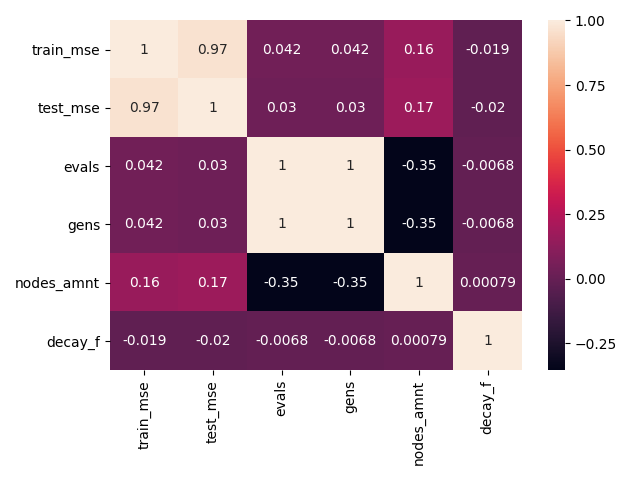
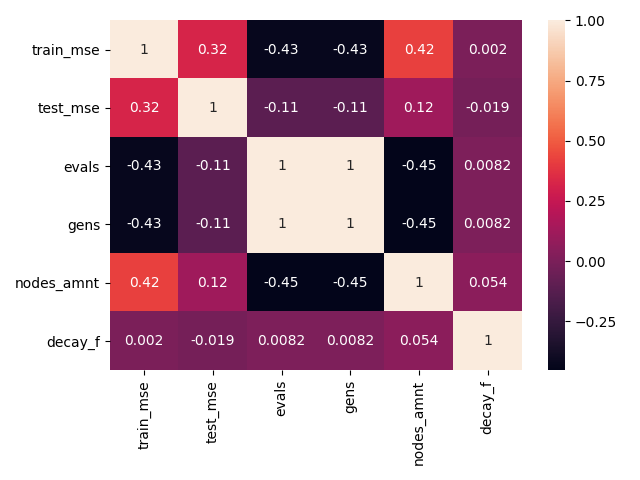
Add code and results for more lr-decay and lr/iters experiments

diff --git a/lr_decay_grid_search.py b/lr_decay_grid_search.py
@@ -3,6 +3,7 @@ import math
 import numpy as np
 import matplotlib.pyplot as plt
 import pandas as pd
+import seaborn as sns
 import sklearn.datasets
 from sklearn.model_selection import KFold
 from copy import deepcopy
@@ -18,8 +19,6 @@ np.random.seed(42)
 
 # Load regression dataset 
 X, y = sklearn.datasets.load_diabetes( return_X_y=True )
-# Take a dataset split
-# X_train, X_test, y_train, y_test = train_test_split( X, y, test_size=0.5, random_state=42 )
 
 # Set functions and terminals
 functions = [
@@ -54,8 +53,6 @@ max_time = 20
 
 # Optimal backprop params
 uni_k = 0.5
-# lr = 0.001
-# iters = 15
 
 # Use 10-fold cross validation
 kf = KFold(n_splits=10, shuffle=True, random_state=42)
@@ -119,13 +116,14 @@ for lr in learning_rates:
 
 log_file.close()
 
-exit()
-
 # Extract the log file's contents into a data frame for easy processing
 filepath = "./logs/lr-iters-lr_decay-_experiments.txt"
 df = pd.read_csv(filepath, sep=" ")
 
 # Add the decay-k parameter manually
+decay_func_params = \
+    [(Backpropagation.StepDecay, k) for k in [5, 10, 15]] + \
+    [(Backpropagation.ExpDecay, k) for k in [0.05, 0.1, 0.15]]
 decay_params_times_ten = []
 for params_list in [[decay_func_params[i]] * 10 for i in range(len(decay_func_params))]:
     decay_params_times_ten.extend(params_list)
@@ -133,6 +131,7 @@ decay_f_series = pd.Series([str(pair[0]).split()[1].strip("Backpropagation.") fo
 decay_k_series = pd.Series([pair[1] for pair in (decay_params_times_ten * 60)])
 df["decay_f"] = decay_f_series
 df["decay_k"] = decay_k_series
+full_df = df.copy()
 
 decay_func_param_tups = [("StepDecay", k) for k in [5, 10, 15]] + \
                         [("ExpDecay", k) for k in [0.05, 0.1, 0.15]]
@@ -141,18 +140,26 @@ abbrev_f = {
     "ExpDecay": "ED"
 }
 
+# Set params to optimal ones
+(opt_lr, opt_iters) = (0.001, 13)
+freeze_params = (df.learning_rate == opt_lr) & (df.iterations == opt_iters)
+df = df[freeze_params]
+
+# Find mean difference between train and test MSE for each decay function
+decay_f_dfs = [df[(df.decay_f == f) & (df.decay_k == k)] for (f, k) in decay_func_param_tups]
+decay_f_mse_diffs = [(dec_df.test_mse - dec_df.train_mse).abs().mean() for dec_df in decay_f_dfs]
+
 # Construct a box plot to describe the test MSE for all decay functions
 mse_data = [df[(df.decay_f == f) & (df.decay_k == k)].test_mse for (f, k) in decay_func_param_tups]
-boxplot_labels = [f"f={abbrev_f[pair[0]]}, k={pair[1]}" for pair in decay_func_param_tups]
+boxplot_labels = [f"({abbrev_f[pair[0]]}, {pair[1]})" for pair in decay_func_param_tups]
 plt.boxplot(mse_data, labels=boxplot_labels, whis=float("inf"))
 plt.xlabel("Decay function & parameter")
 plt.ylabel("Mean Square Error (MSE)")
-plt.title(f"Decay function ~ Test MSE")
-plt.savefig(f"./figs/lr_decay-func-vs-mse-box.png")
+plt.title(f"Decay function ~ Test MSE for optimal lr and #iters")
+# plt.savefig(f"./figs/lr_decay-func-vs-mse-box.png")
 plt.show()
 
 # Plot gens vs. MSE for each decay function using the optimal lr & iters params
-(opt_lr, opt_iters) = (0.001, 15)
 colors = {
     ("StepDecay", 5): "blue",
     ("StepDecay", 10): "red",
@@ -161,7 +168,7 @@ colors = {
     ("ExpDecay", 0.1): "green",
     ("ExpDecay", 0.15): "purple"
 }
-opt_df = df[(df.learning_rate == opt_lr) & (df.iterations == opt_iters)]
+opt_df = df
 for (f, k) in decay_func_param_tups:
     sub_df = opt_df[(opt_df.decay_f == f) & (opt_df.decay_k == k)]
     plt.scatter(sub_df.evals, sub_df.test_mse, label=f"f={abbrev_f[f]}, k={k}", color=colors[(f, k)])
@@ -173,3 +180,29 @@ plt.title(f"Evaluations ~ Test MSE for optimal lr and #iters")
 # plt.savefig(f"./figs/evals-vs-mse-lr-decay-opt-params.png")
 plt.show()
 
+# Plot correlation heat map to show the decay functions' lack of influence.
+# Set up clean dataframes for the heat maps first.
+corr_df = df.copy()
+corr_df = corr_df.drop(["iterations", "learning_rate", "runtime"], axis=1)
+corr_df_k_step = corr_df.copy()[corr_df.decay_f == "StepDecay"]
+corr_df_k_step = corr_df_k_step.drop(["decay_f"], axis=1)
+corr_df_k_exp = corr_df.copy()[corr_df.decay_f == "ExpDecay"]
+corr_df_k_exp = corr_df_k_exp.drop(["decay_f"], axis=1)
+corr_df = corr_df.drop(["decay_k"], axis=1)
+corr_df["decay_f"] = pd.Series(df.decay_f.astype("category").cat.codes)
+
+# Plot corr heat map for decay functions
+sns.heatmap(corr_df.corr(), annot=True)
+plt.tight_layout()
+# plt.savefig("./figs/decay_f-corr-heatmap.png")
+plt.show()
+
+# Plot corr heat map for each function's parameter impact
+sns.heatmap(corr_df_k_step.corr(), annot=True)
+plt.tight_layout()
+# plt.savefig("./figs/step-decay_k-corr_heatmap.png")
+plt.show()
+sns.heatmap(corr_df_k_exp.corr(), annot=True)
+plt.tight_layout()
+# plt.savefig("./figs/exp-decay_k-corr_heatmap.png")
+plt.show()

diff --git a/lr_and_iters_grid_search.py b/lr_and_iters_grid_search.py
@@ -104,7 +104,6 @@ for lr in learning_rates:
 
 log_file.close()
 
-exit()
 # Extract the log file's contents into a data frame for easy processing
 filepath = "./logs/learning_rate_and_iterations_experiments.txt"
 df = pd.read_csv(filepath, sep=" ")
@@ -132,6 +131,10 @@ var_means_dfs = {
     "learning_rate": create_means_df("learning_rate", learning_rates),
     "iterations": create_means_df("iterations", steps_vals)
 }
+
+# Find mean difference between train and test MSE for each learning rate
+lr_dfs = [df[(df.learning_rate == lr) & (df.iterations == 15)] for lr in learning_rates]
+lr_mse_diffs = [(lr_df.test_mse - lr_df.train_mse).abs().mean() for lr_df in lr_dfs]
 
 # Separately plot the influence of the learning rate and the amount of
 # iterations on the MSEs, the amount of generations, the amount of nodes, and
